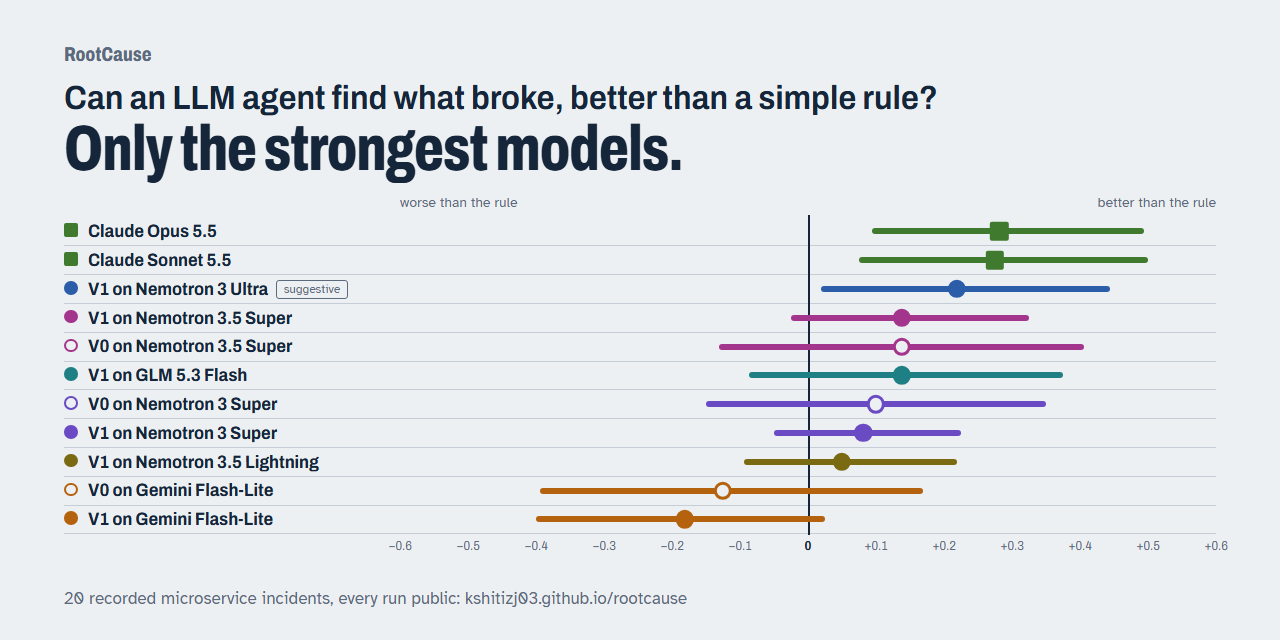
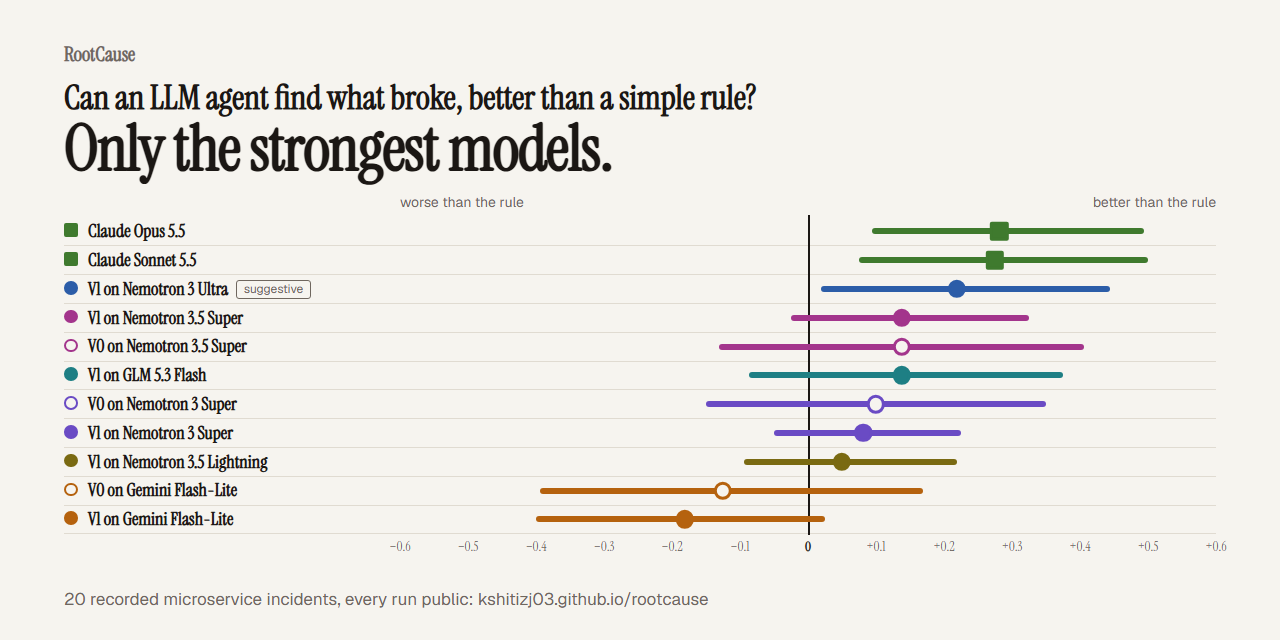
Method, error state, old pages restyled, deploy via web/dist
Method section and a role=alert error state when the index fails to load.
check-dist script (JS budget, relative URLs, required pages, no dist/tests);
site/tests no longer published. Old results and replay pages take the new
palette and fonts; share images regenerated. The site workflow builds and
uploads web/dist; tests.yml runs oxlint. README and CHANGELOG updated.

diff --git a/site/assets/style.css b/site/assets/style.css
@@ -1,17 +1,17 @@
 /* RootCause replay site. Colour tokens first, then page furniture, then the scoreboard. */
 
 :root {
-  --paper: #EDF0F2;
-  --ink: #16263A;
-  --muted: #5B6B7D;
+  --paper: #F6F4EF;
+  --ink: #1B1714;
+  --muted: #6F675F;
   --cause: #2350C8;
-  --hit: #0B7A62;         /* "correct" text */
-  --miss: #B0283F;        /* "wrong" text */
-  --hit-fill: #0B7A62;    /* tile behind a white glyph */
-  --miss-fill: #B0283F;
+  --hit: #2E6B4F;         /* "correct" text */
+  --miss: #C8452C;        /* "wrong" text */
+  --hit-fill: #2E6B4F;    /* tile behind a white glyph */
+  --miss-fill: #C8452C;
   --trace: #C47A12;
-  --hairline: #C5CED7;   /* row separators: navy ink thinned against the paper */
-  --wash: #F7F9FA;       /* row hover: lighter than the paper, so muted text keeps AA contrast */
+  --hairline: #E0DBD1;     /* row separators */
+  --wash: #EEEBE4;       /* row hover: lighter than the paper, so muted text keeps AA contrast */
   /* chart series: hue is the model (the rule is ink); fill is the toolset (v1 filled, v0 hollow) */
   --gemini: #B5620E;
   --nemotron: #6A4BC4;
@@ -21,30 +21,30 @@
   --ultra: #2C5DA8;
   --lightning: #7A6A12;
 
-  --display: "Archivo", "Arial Narrow", system-ui, sans-serif;
-  --body: "Atkinson Hyperlegible", system-ui, sans-serif;
-  --glyph: "Archivo", "Segoe UI Symbol", "Apple Symbols", "DejaVu Sans", sans-serif;
+  --display: "Instrument Serif", Georgia, serif;
+  --body: "Geist", system-ui, sans-serif;
+  --glyph: "Geist", "Segoe UI Symbol", "Apple Symbols", "DejaVu Sans", sans-serif;
 
   --gutter: clamp(16px, 4vw, 48px);
   --measure: 68ch;
   color-scheme: light;
 }
 
-/* Dark: the same navy-and-paper scheme inverted. Text and series colours lighten for contrast on the dark paper; tile
+/* Dark: the same warm paper scheme inverted. Text and series colours lighten for contrast on the dark paper; tile
    fills keep their depth so the white glyphs stay readable. */
 @media (prefers-color-scheme: dark) {
   :root {
-    --paper: #111A24;
-    --ink: #E3E9EF;
-    --muted: #98A6B5;
+    --paper: #12100E;
+    --ink: #EDE8E0;
+    --muted: #9A9187;
     --cause: #8DB0FF;
-    --hit: #45C9A0;
-    --miss: #FF7D90;
-    --hit-fill: #0B7A62;
-    --miss-fill: #B0283F;
+    --hit: #55A87F;
+    --miss: #E3664B;
+    --hit-fill: #2E6B4F;
+    --miss-fill: #B8472F;
     --trace: #E8A23A;
-    --hairline: #2C3A4A;
-    --wash: #1A2532;
+    --hairline: #2D2824;
+    --wash: #1C1916;
     --gemini: #F0A04B;
     --nemotron: #B4A0FF;
     --glm: #5CCDD1;
@@ -74,7 +74,7 @@ a:hover { text-decoration-thickness: 2px; }
 
 code { font-family: ui-monospace, "Cascadia Mono", Consolas, monospace; font-size: 0.9em; }
 
-h1, h2, h3 { font-family: var(--display); font-weight: 700; margin: 0; }
+h1, h2, h3 { font-family: var(--display); font-weight: 400; margin: 0; }
 
 .visually-hidden {
   position: absolute !important; width: 1px; height: 1px; margin: -1px; padding: 0;

diff --git a/web/src/styles/site.css b/web/src/styles/site.css
@@ -119,7 +119,7 @@ section.results { padding-block: 140px 40px; }
 .ticker .row { display: flex; gap: 48px; width: max-content; animation: marquee 60s linear infinite; font: 14px var(--mono); }
 .ticker .dup { display: contents; }
 .ticker .view:hover .row, .ticker.paused .row { animation-play-state: paused; }
-.ticker .pause { flex: none; min-width: 13ch; text-align: center; font: 500 12px/1 var(--mono); padding: 7px 10px; border-radius: 8px; border: 1px solid var(--line); background: var(--paper); color: var(--muted); cursor: pointer; }
+.ticker .pause { flex: none; min-width: calc(13ch + 22px); text-align: center; font: 500 12px/1 var(--mono); padding: 7px 10px; border-radius: 8px; border: 1px solid var(--line); background: var(--paper); color: var(--muted); cursor: pointer; }
 .ticker .pause:hover { color: var(--ink); border-color: var(--muted); }
 .ticker .pause:focus-visible { outline: 2px solid var(--ink); outline-offset: 2px; }
 .ticker .item { white-space: nowrap; color: var(--muted); }
@@ -155,3 +155,11 @@ section.runs { padding-block: 120px 40px; }
 @media (prefers-reduced-motion: reduce) {
   .t { opacity: 1; scale: 1; }
 }
+
+/* method */
+section.method { padding-block: 140px 60px; }
+.cols { display: grid; grid-template-columns: repeat(3, 1fr); gap: 40px; margin-top: 48px; }
+.cols h3 { font: 400 28px/1.1 var(--serif); margin: 0 0 10px; }
+.cols p { color: var(--muted); margin: 0; }
+@media (max-width: 860px) { .cols { grid-template-columns: 1fr; gap: 28px; } }
+.load-error { margin-block: 24px 0; color: var(--fault); font: 500 14px var(--mono); }

diff --git a/web/src/App.tsx b/web/src/App.tsx
@@ -8,14 +8,15 @@ import { STORY } from './story/valkey-cart'
 import { Results } from './sections/Results'
 import { Ticker } from './sections/Ticker'
 import { RunsGrid } from './sections/RunsGrid'
+import { Method } from './sections/Method'
 import { Footer } from './sections/Footer'
 
 export default function App() {
   const [data, setData] = useState<IndexData | null>(null)
+  const [failed, setFailed] = useState(false)
   useEffect(() => {
     let live = true
-    // Task 9 adds the error state; until then a failed load leaves the hero as is.
-    loadIndex().then((d) => live && setData(d), () => {})
+    loadIndex().then((d) => live && setData(d), () => live && setFailed(true))
     return () => { live = false }
   }, [])
   return (
@@ -23,10 +24,14 @@ export default function App() {
       <Nav />
       <main>
         <Hero data={data} />
+        {failed && (
+          <p role="alert" className="wrap load-error">The results could not be loaded. Try reloading the page.</p>
+        )}
         <Story story={STORY} />
         {data && <Results data={data} />}
         {data && <Ticker data={data} />}
         {data && <RunsGrid data={data} />}
+        <Method />
       </main>
       <Footer />
     </>

diff --git a/web/src/sections/Method.tsx b/web/src/sections/Method.tsx
@@ -1,0 +1,22 @@
+export function Method() {
+  return (
+    <section className="method wrap" id="method">
+      <span className="eyebrow">Method</span>
+      <h2 className="big">Hard to fool.</h2>
+      <div className="cols">
+        <div>
+          <h3>Recorded, not simulated</h3>
+          <p>Every fault was injected into the running OpenTelemetry Demo and captured: metrics, traces and logs, with the true cause stored apart.</p>
+        </div>
+        <div>
+          <h3>Leak-proofed</h3>
+          <p>Flag names, delay markers and alert wording that could give the cause away are stripped, and a scan checks every recording.</p>
+        </div>
+        <div>
+          <h3>Rules fixed first</h3>
+          <p>Scoring was written before the first run. Four no-fault controls punish false alarms. One author: every threat to validity is listed.</p>
+        </div>
+      </div>
+    </section>
+  )
+}

diff --git a/web/vite.config.ts b/web/vite.config.ts
@@ -1,4 +1,5 @@
 import react from '@vitejs/plugin-react'
+import { rmSync } from 'node:fs'
 import { defineConfig } from 'vitest/config'
 
 // publicDir is the existing static site: results.html, incident.html, data/ and assets/
@@ -6,7 +7,11 @@ import { defineConfig } from 'vitest/config'
 export default defineConfig({
   base: './',
   publicDir: '../site',
-  plugins: [react()],
+  plugins: [
+    react(),
+    // publicDir also carries site/tests (the old site's unit tests); they are not part of the published site.
+    { name: 'drop-site-tests', closeBundle() { rmSync('dist/tests', { recursive: true, force: true }) } },
+  ],
   build: { assetsDir: '_app' },
   test: { environment: 'jsdom', setupFiles: ['src/test/setup.ts'], include: ['src/**/*.test.{ts,tsx}'] },
 })

diff --git a/web/src/App.error.test.tsx b/web/src/App.error.test.tsx
@@ -1,0 +1,15 @@
+import { render, screen } from '@testing-library/react'
+import { it, expect, vi, afterEach } from 'vitest'
+import App from './App'
+
+afterEach(() => vi.unstubAllGlobals())
+
+it('a failed load keeps the hero and says the results could not be loaded', async () => {
+  vi.stubGlobal('fetch', vi.fn(async () => ({ ok: false, status: 404, json: async () => ({}) })))
+  const { container } = render(<App />)
+  expect(screen.getByRole('heading', { level: 1 })).toBeInTheDocument()
+  expect(await screen.findByRole('alert')).toHaveTextContent('could not be loaded')
+  expect(container.querySelector('#results')).toBeNull()
+  expect(container.querySelector('.ticker')).toBeNull()
+  expect(container.querySelector('.grid')).toBeNull()
+})

diff --git a/site/card.html b/site/card.html
@@ -8,7 +8,7 @@
 <!-- The 1280x640 image used when the site is shared (assets/card.png): open at 1280x640 and screenshot it. -->
 <link rel="preconnect" href="https://fonts.googleapis.com">
 <link rel="preconnect" href="https://fonts.gstatic.com" crossorigin>
-<link rel="stylesheet" href="https://fonts.googleapis.com/css2?family=Archivo:wdth,wght@62..125,400..800&family=Atkinson+Hyperlegible:ital,wght@0,400;0,700;1,400&display=swap">
+<link rel="stylesheet" href="https://fonts.googleapis.com/css2?family=Instrument+Serif:ital@0;1&family=Geist:wght@400;500;600&family=Geist+Mono:wght@400;500&display=swap">
 <link rel="stylesheet" href="assets/style.css">
 <script type="module" src="assets/app.js"></script>
 </head>

diff --git a/site/incident.html b/site/incident.html
@@ -17,7 +17,7 @@
 <meta name="twitter:card" content="summary_large_image">
 <link rel="preconnect" href="https://fonts.googleapis.com">
 <link rel="preconnect" href="https://fonts.gstatic.com" crossorigin>
-<link rel="stylesheet" href="https://fonts.googleapis.com/css2?family=Archivo:wdth,wght@62..125,400..800&family=Atkinson+Hyperlegible:ital,wght@0,400;0,700;1,400&display=swap">
+<link rel="stylesheet" href="https://fonts.googleapis.com/css2?family=Instrument+Serif:ital@0;1&family=Geist:wght@400;500;600&family=Geist+Mono:wght@400;500&display=swap">
 <link rel="stylesheet" href="assets/style.css">
 <script type="module" src="assets/app.js"></script>
 </head>

diff --git a/site/results.html b/site/results.html
@@ -17,7 +17,7 @@
 <meta name="twitter:card" content="summary_large_image">
 <link rel="preconnect" href="https://fonts.googleapis.com">
 <link rel="preconnect" href="https://fonts.gstatic.com" crossorigin>
-<link rel="stylesheet" href="https://fonts.googleapis.com/css2?family=Archivo:wdth,wght@62..125,400..800&family=Atkinson+Hyperlegible:ital,wght@0,400;0,700;1,400&display=swap">
+<link rel="stylesheet" href="https://fonts.googleapis.com/css2?family=Instrument+Serif:ital@0;1&family=Geist:wght@400;500;600&family=Geist+Mono:wght@400;500&display=swap">
 <link rel="stylesheet" href="assets/style.css">
 <script type="module" src="assets/app.js"></script>
 </head>

diff --git a/README.md b/README.md
@@ -115,8 +115,9 @@ The two evidence measures are:
 
 ## Replay site
 
-A static site replays every recorded run, failures included:
-- **The scoreboard** shows one mark per run, for every incident and solver.
+The landing page tells the story and links to every recorded run, failures included:
+- **The landing page** walks through one investigation, then shows the result across all 20 incidents and every run as a grid.
+- **The scoreboard** (`results.html`) holds the full table and charts: one mark per run, for every incident and solver.
 - **Each incident page** steps through the agent's investigation: every tool call and what it returned, drawn as tables and sparklines. Next to it is the verdict against the true cause, the simple rule's answer for the same incident, and the cited evidence marked grounded or not. Add `&step=N` to a replay link to open it at step N.
 
 <a href="https://kshitizj03.github.io/rootcause/incident.html?id=valkey-cart-paused&solver=agent-v1-nemotron&run=2"><picture>
@@ -129,10 +130,10 @@ A static site replays every recorded run, failures included:
 ```bash
 python -m rootcause report    # rewrites docs/results/ from your data/runs; `git checkout docs/results` restores the published results
 python -m rootcause site      # builds site/data from data/runs and copies the charts from docs/results/figures
-python -m http.server 8000 -d site   # then open http://localhost:8000
+cd web && npm ci && npm run dev   # then open the URL it prints
 ```
 
-The site is plain HTML, CSS and JS with no build step, and every URL is relative, so it can be served from any sub-path. The `site` workflow (`.github/workflows/site.yml`) publishes it to GitHub Pages on every push to `main`: it fetches the data release, runs `rootcause site` and deploys `site/`. In a fork, enable Pages with "GitHub Actions" as the source.
+The landing page is a Vite, React and TypeScript app in `web/`; `results.html`, `incident.html` and the data in `site/` are plain HTML, CSS and JS that it copies through untouched. To build the published site, run `python -m rootcause site`, then `npm ci && npm run build` in `web/`; the result is `web/dist`, and every URL is relative, so it can be served from any sub-path. The `site` workflow (`.github/workflows/site.yml`) publishes it to GitHub Pages on every push to `main`: it fetches the data release, runs `rootcause site`, tests and builds `web/` and deploys `web/dist`. In a fork, enable Pages with "GitHub Actions" as the source.
 
 The site shows ground truth, so it is built after scoring and is never given to the agent or the MCP server.
 
@@ -210,7 +211,8 @@ Both are scored by the same rules as the built-in solvers, and `summary`, `repor
 | `rootcause/claude_code.py` | the Claude Code solver: `claude -p` with the v1 prompt and only the v1 tools |
 | `rootcause/evidence.py`, `mcp_server.py` | evidence checker and MCP server |
 | `rootcause/report.py`, `tracing.py` | results report and figures; optional OpenTelemetry GenAI spans of agent runs |
-| `rootcause/site.py`, `site/` | data builder and static front end of the replay site |
+| `rootcause/site.py`, `site/` | data builder, and the static results and replay pages of the site |
+| `web/` | the landing page (Vite, React, TypeScript); built into `web/dist` with the pages from `site/` |
 | `tests/` | offline test suite (no Docker, no API key, no recorded data) |
 | `examples/my_agent.py`, `docs/benchmark.md` | a small custom solver for `eval-custom`, and how to benchmark your own model or agent |
 | `experiments/laya/`, `experiments/hunch/` | decision-model entry tests: can a small model beat the heuristic? |

diff --git a/CHANGELOG.md b/CHANGELOG.md
@@ -21,6 +21,7 @@ The first public version: the benchmark, its two agents and the results so far.
 ### Results and tooling
 - `rootcause report`: accuracy by category, false alarms, evidence, paired comparisons with bootstrap intervals and permutation p-values (with and without the controls), failure modes, step-limit hits, run-to-run agreement, calibration and cost (`docs/results/report.md`).
 - A static replay site of every run (`rootcause site`): the result as a forest plot of each agent against the rule, what moved accuracy, every run, charts drawn in the page, light and dark themes, a share card, and replay links that open at a given step (`&step=N`).
+- A landing page (`web/`, Vite, React and TypeScript with Motion): a scrolling investigation of one outage, the result against the rule, every run as a grid, and the method. The scoreboard moved to `results.html`; the old pages share its palette and fonts. The site workflow now tests and builds `web/` and publishes `web/dist`.
 - `rootcause pack-data` and `rootcause fetch-data` for the data release (`data-v1` on 2026-10-18; `data-v2` on 2026-10-20 adds Nemotron 3.5 Super, GLM 5.3 Flash and the Gemini vague-alert ablation; `data-v3` on 2026-11-10 adds Claude Sonnet 5.5 and Opus 5.5; `data-v4` adds Nemotron 3 Ultra, Nemotron 3.5 Lightning and the finished Gemini no-priors ablation; SHA-256 checked); `rootcause prompts` writes `docs/prompts.md` from the code.
 - Methodology FAQ and threats to validity (`docs/faq.md`).
 - Apache-2.0 license, NOTICE, CITATION.cff, pinned dependencies (`requirements-lock.txt`), CI on Ubuntu and Windows with a check that the published report and the rule's scores reproduce from the data release, and a workflow that publishes the replay site from that release once the tests pass.
